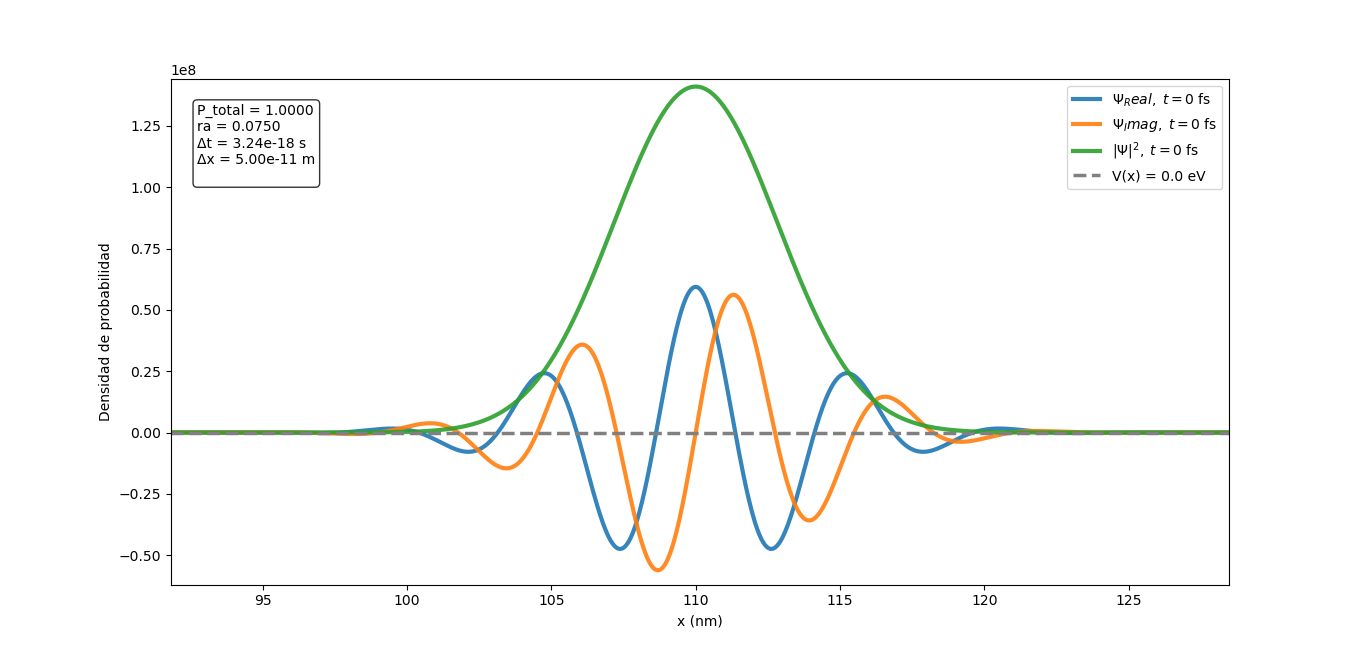
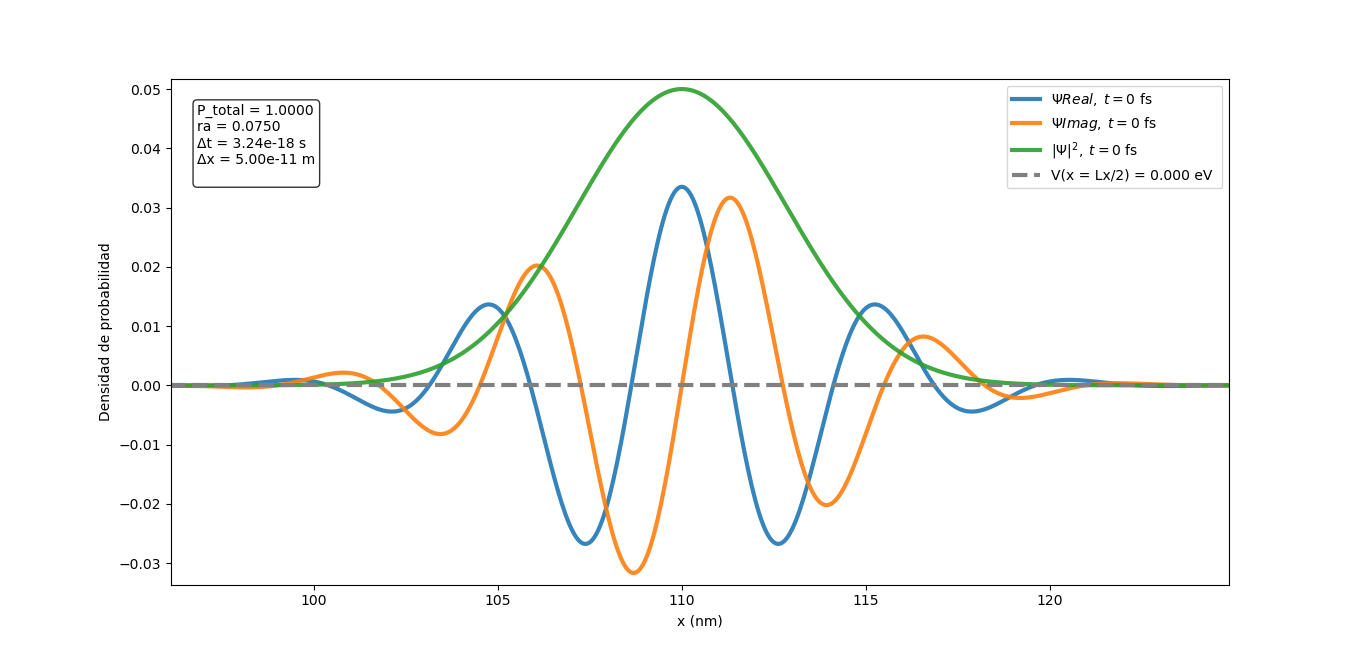
Se ajusta componentes real e imaginario para t0

diff --git a/script_tp1.py b/script_tp1.py
@@ -59,12 +59,12 @@ V = np.zeros(Nx)
 # Escalón de potencial
 
 # 0.025 eV
-V[x < Lx/2] = 0*eV
-V[x >= Lx/2] =0.025 * eV  # 0.025 eV a partir de x = Lx/2
+#V[x < Lx/2] = 0*eV
+#V[x >= Lx/2] =0.025 * eV  # 0.025 eV a partir de x = Lx/2
 
 # 0.25 eV
-#V[x < Lx/2] = 0*eV
-#V[x >= Lx/2] =0.25 * eV  # 0.25 eV a partir de x = Lx/2
+# V[x < Lx/2] = 0*eV
+# V[x >= Lx/2] =0.25 * eV  # 0.25 eV a partir de x = Lx/2
 
 
 # # Potencial barrera
@@ -112,8 +112,8 @@ plt.figure(figsize=(8,5))
 
 #Solo Para condiciones iniciales
 #Componentes Real e imaginaria en tiempo 0 
-#plt.plot(x*1e9, psi_real*5000, label=fr"$\Psi_Real, \; t = {0:.0f}\ \mathrm{{fs}}$", alpha=0.9, linewidth=3)
-#plt.plot(x*1e9, psi_imag*5000, label=fr"$\Psi_Imag, \; t = {0:.0f}\ \mathrm{{fs}}$", alpha=0.9, linewidth=3)
+# plt.plot(x*1e9, 2e-14*psi_real*max_densidad, label=fr"$\Psi Real, \; t = {0:.0f}\ \mathrm{{fs}}$", alpha=0.9, linewidth=3)
+# plt.plot(x*1e9,2e-14*psi_imag*max_densidad, label=fr"$\Psi Imag, \; t = {0:.0f}\ \mathrm{{fs}}$", alpha=0.9, linewidth=3)
 
 #Solo Para condiciones iniciales
 #target_times = [0]  # en femtosegundos
@@ -199,7 +199,7 @@ for n in range(Nt):
 
 tolerance = 0.5  # tolerancia en fs para encontrar el snapshot más cercano
 for psi_sqr, t in zip(psi_sqr_snapshots, times):
-     # revisar si t está cerca de alguno de los tiempos objetivo
+   #  revisar si t está cerca de alguno de los tiempos objetivo
      if any(abs(t - T) < tolerance for T in target_times):
          plt.plot(x*1e9, Ek0_eV*(psi_sqr/max_densidad), label=fr"$|\Psi|^2, \; t = {t:.0f}\ \mathrm{{fs}}$", alpha=0.9, linewidth=3)
 
